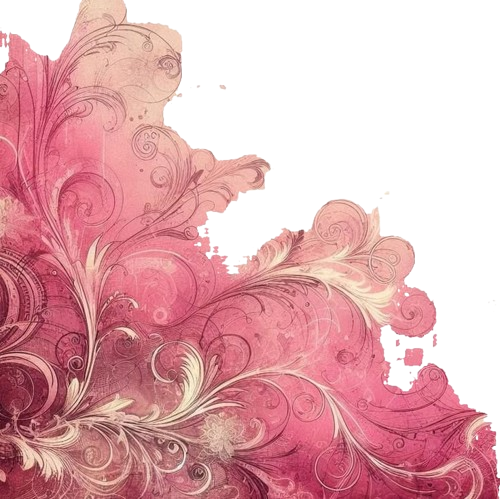
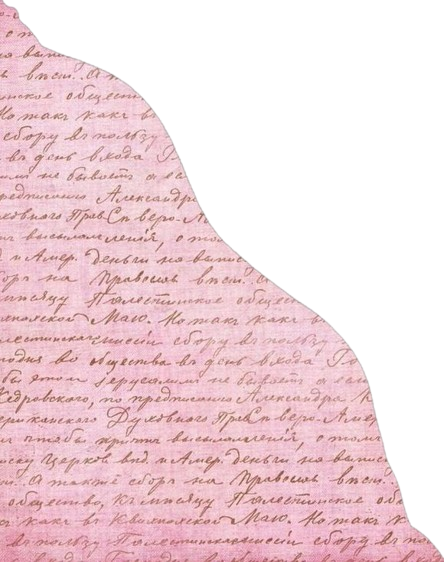
تعديل بسيط على الاطار

diff --git a/src/components/TheBouquet.jsx b/src/components/TheBouquet.jsx
@@ -10,8 +10,8 @@ export default function TheBouquet({ onBack, bubbleTexts }) {
   return (
     <div className="relative w-full min-h-screen bg-[url('/images/bg.jpg')] bg-cover bg-center bg-no-repeat overflow-hidden flex flex-col" dir="rtl">
       {/* Absolute Corners */}
-      <img src="/images/corner.png" className="absolute top-0 right-0 w-64 md:w-96 lg:w-[450px] object-contain transform rotate-180 z-0 pointer-events-none animate-pulse duration-1000" alt="corner" />
-      <img src="/images/corner.png" className="absolute bottom-0 left-0 w-64 md:w-96 lg:w-[450px] object-contain z-0 pointer-events-none animate-pulse duration-1000" alt="corner" />
+      <img src="/images/corner.png" className="absolute top-0 left-0 w-64 md:w-96 lg:w-[450px] object-contain transform -scale-y-100 z-0 pointer-events-none" alt="corner" />
+      <img src="/images/corner.png" className="absolute bottom-0 right-0 w-64 md:w-96 lg:w-[450px] object-contain transform -scale-x-100 z-0 pointer-events-none" alt="corner" />
 
       {/* Top Bar - Title exactly centered with animation, Next button on the side */}
       <div className="relative z-20 flex justify-between items-center w-full max-w-[1600px] mx-auto px-8 pt-10 h-24">
@@ -33,10 +33,12 @@ export default function TheBouquet({ onBack, bubbleTexts }) {
             ))}
           </div>
 
-          {/* Column 2 (Center - MASSIVE Frame & Floating Bouquet) */}
-          <div className="relative flex items-center justify-center w-[350px] h-[450px] lg:w-[550px] lg:h-[750px] mx-4">
-            <img src="/images/frame.png" className="absolute w-full h-full object-contain drop-shadow-xl z-0" alt="frame" />
-            <img src="/images/bouquet.png" className="relative z-10 w-[280px] lg:w-[450px] object-contain drop-shadow-2xl hover:scale-110 transition-transform duration-300" alt="bouquet" />
+          {/* Column 2 (Center - MASSIVE Frame & Bouquet) */}
+          <div className="relative flex items-center justify-center mx-4">
+            <div className="relative inline-block">
+              <img src="/images/frame.png" className="w-[350px] lg:w-[550px] object-contain drop-shadow-xl" alt="frame" />
+              <img src="/images/bouquet.png" className="absolute top-1/2 left-1/2 transform -translate-x-1/2 -translate-y-1/2 w-[220px] lg:w-[380px] object-contain drop-shadow-2xl" alt="bouquet" />
+            </div>
           </div>
 
           {/* Column 3 (Visual Left in RTL - Tails point Right to bouquet) */}
